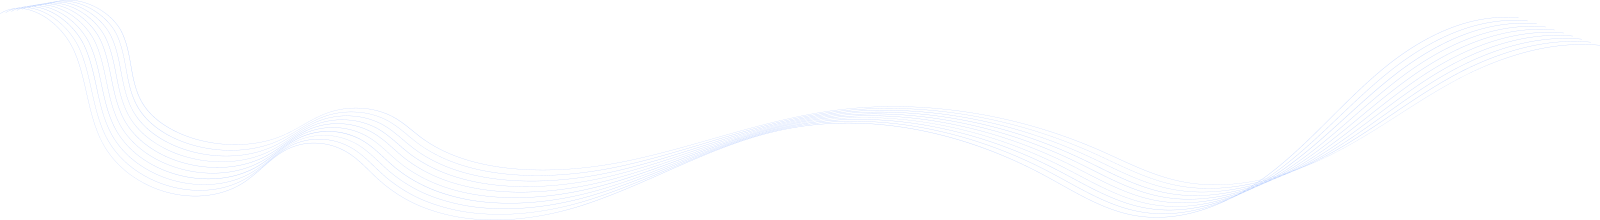
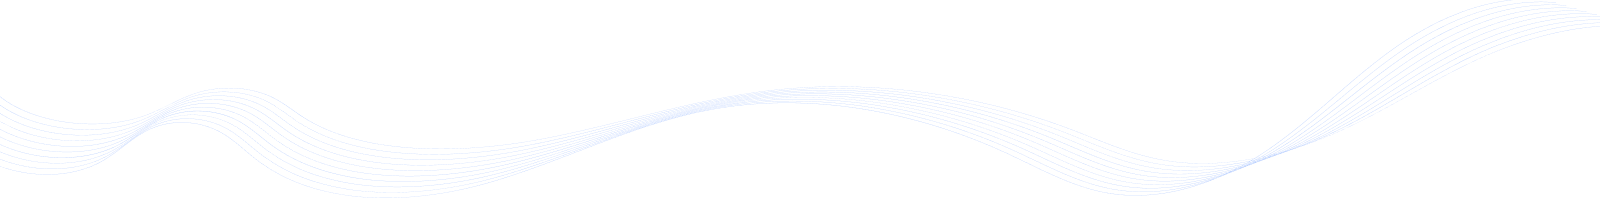
Fix: PROF2022-698/697/554/555

diff --git a/src/components/navigation/NavMenu.module.scss b/src/components/navigation/NavMenu.module.scss
@@ -30,7 +30,7 @@
 .sidebar {
     width: 100%;
     background: global.$background-sidebar;
-    padding: 50px 0 0 60px;
+    padding: 30px 0 0 50px;
     display: flex;
     flex-direction: column;
     text-align: left;
@@ -39,50 +39,57 @@
         display: none;
     }
     &__logo {
-        padding: 0 0 63px;
-        width: fit-content;
-        padding-left: 10px;
+        padding: 0 0 40px 0;
+        & img {
+            width: 130px;
+            height: 44px;
+        }
     }
     &__photo {
-        height: 200px;
-        width: 200px;
-        margin-left: 10px;
+        height: 140px;
+        width: 140px;
+        margin-left: 40px;
         background: global.$background-main;
         border: global.$text-primary-blue solid 1px;
         border-radius: 50%;
-        padding: 72px 34px 72px 34px;
+        padding: 48px 20px;
     }
     &__photo__button {
-        width: 32px;
-        height: 32px;
+        width: 24px;
+        height: 24px;
         margin: auto;
         background-color: #F0F5FF;
         border-radius: 50%;
-        padding: 7px 9px;
+        padding: 6.75px;
+        & svg {
+            display: block;
+        }
     }
     &__photo__title {
         color: global.$text-primary-blue;
         font-weight: 600;
-        font-size: 1.12em;
+        font-size: 0.875em;
         line-height: 1.32;
+        white-space: nowrap;
     }
     &__number {
         color: global.$text-primary-grey;
-        font-size: 1em;
+        font-size: 0.875em;
         font-weight: 500;
         line-height: 1.32;
-        padding: 10px 0 39px 22px;
+        padding: 12px 0px 31px 28px;
     }
     &__number__id {
         font-weight: 400;
+        padding-left: 5px;
     }
     &__nav__link {
         display: flex;
         flex-direction: row;
         column-gap: 12px;
-        padding: 23px 25px;
+        padding: 15px 24px;
         font-weight: 400;
-        font-size: 1.25em;
+        font-size: 1.125em;
         line-height: 1.32;
         color: global.$text-primary-dark-blue;
         position: relative;
@@ -91,34 +98,14 @@
             stroke: global.$text-primary-dark-blue;
         }
     }
-    @media (max-width: 1439.98px) {
-        padding: 30px 0 0 30px;
-        &__nav__link {
-            padding: 23px 28px;
-            column-gap: 10px;
-        }
-        &__logo {
-            padding: 0 0 28px;
-            padding-left: 2px;
-            & img {
-                width: 130px;
-                height: 44px;
-            }
-        }
-        &__number {
-            padding: 10px 0 41px 20px;
-        }
-        &__photo {
-            margin-left: 2px;
-        }
-    }
-    @media (max-width: 767.98px) {
-        background: global.$background-main url("../../static/images/background-cabinet-burger.png") bottom / cover no-repeat;
-        width: 100%;
+    @media (max-width: 1365px) {
+        background: global.$background-main url("../../static/images/background-personal-cabinet-burger.png") 0 calc(100% - 54px) / contain no-repeat;
+        width: 428px;
+        margin: 0 auto;
         position: absolute;
         z-index: 3;
         top: 0;
-        right: 0;
+        right: calc(50% - 428px/2);
         opacity: 0;
         visibility: hidden;
         transition: opacity 100ms ease-in;
@@ -132,25 +119,29 @@
             display: none;
         }
     }
+    @media (max-width: 428px) {
+        width: 100%;
+        right: 0;
+    }
 }
 
 .sidebar_open.sidebar {
-    @media (max-width: 767.98px) {
+    @media (max-width: 1365px) {
         visibility: visible;
         opacity: 1;
-        padding: 9.57px 15px 0;
+        padding: 20px 16px 0;
         .sidebar {
             &_open__header {
                 display: flex;
                 justify-content: space-between;
-                margin-bottom: 30px;
+                margin-bottom: 24px;
                 &_exit {
                     cursor: pointer;
                 }
             }
             &__nav__link {
                 column-gap: 8px;
-                padding: 16.5px 0;
+                padding: 12.5px 0;
                 font-size: 1em;
                 color: global.$text-primary-dark-blue;
                 background: transparent;
@@ -221,8 +212,8 @@
 
 .exit{
     display: none;
-    @media (max-width: 767.98px) {
-        margin: auto 0 119.5px;
+    @media (max-width: 1365px) {
+        margin: auto 0 58px;
         display: block;
         & p {
             font-size: 1em;

diff --git a/src/pages/PersonalCabinetPage/PersonalCabinetPage.module.scss b/src/pages/PersonalCabinetPage/PersonalCabinetPage.module.scss
@@ -2,16 +2,9 @@
 .page {
     min-height: 100vh;
     text-align: center;
-    
-    &__background {
-        position: absolute;
-        z-index: -1;
-        margin: 126px 0 91.45px;
-        width: 100vw;
-        height: 220px;
-        background: global.$background-main url("../../static/images/background-personal-cabinet.png") center / cover no-repeat;
-    }
+    width: 100vw;
     &__container {
+        background: global.$background-main url("../../static/images/background-personal-cabinet.png") top center / contain no-repeat;
         margin: 0 auto;
         display: flex;
         justify-content: center;
@@ -23,36 +16,25 @@
         display: flex;
         justify-content: flex-start;
         flex-direction: column;
-        width: 75%;
+        width: calc(100% - 320px);
     }
     &__header {
-        margin: 38px 0 91.45px;
-        height: 216px;
+
     }
     &__main {
 
     }
     &__sidebar {
-        flex-basis: 25%;
+        flex-basis: 320px;
     }
-    @media (max-width: 1439.98px) {
-        &__background {
-            margin: 52px 0 44px;
-        }
-        &__sidebar {
-            flex-basis: 32%;
-        }
-        &__content {
-            width: 68%;
-        }
-        &__header {
-            margin: 52px 0 44px;
-            height: 126px;
-        }
-    }
-    @media (max-width: 767.98px) {
+    @media (max-width: 1365px) {
         &__container {
             display: block;
+            width: 428px;
+            background: global.$background-main url("../../static/images/background-personal-cabinet-small.png") 0 56px / contain no-repeat;
+        }
+        &__header {
+
         }
         &__content {
             width: 100%;
@@ -60,24 +42,24 @@
         &__sidebar {
             width: 100%;
         }
-        &__background {
-            display: none;
-        }
-        &__header {
-            margin: 0;
-            height: fit-content;
+    }
+    @media (max-width: 428px) {
+        &__container {
+            width: 100%;
         }
     }
 }
 .header {
     display: none;
-    @media (max-width: 767.98px) {
+    @media (max-width: 1365px) {
         display: flex;
-        width: 100%;
+        width: 428px;
         justify-content: space-between;
         height: 70.57px;
-        padding: 20px 15px 0 18.75px;
+        padding: 20px 16px 0;
         position: fixed;
+        top: 0;
+        right: calc(50% - 428px/2);
         z-index: 2;
         backdrop-filter: blur(2px);
         background: rgba(255, 255, 255, 0.1);
@@ -88,16 +70,17 @@
             cursor: pointer;
         }
     }
+    @media (max-width: 428px) {
+        width: 100%;
+        right: 0;
+    }
 }
 .exit {
     align-self: flex-end;
-    margin: 66px 112px 0 0;
+    margin: 50px 50px 0 0;
     font-size: 1.25em;
     line-height: 1.32;
-    @media (max-width: 1439.98px) {
-        margin: 46px 32px 0 0;
-    }
-    @media (max-width: 767.98px) {
+    @media (max-width: 1365px) {
         display: none;
     }
 }

diff --git a/src/components/navigation/NavMenu.jsx b/src/components/navigation/NavMenu.jsx
@@ -47,18 +47,18 @@ const NavMenu = ({ menuIsOpen, closeMenu, ...props }) => {
       </div>
       <div className={styles.sidebar__photo}>
         <div className={styles.sidebar__photo__button}>
-          <svg
-            width='14'
-            height='14'
-            viewBox='0 0 14 14'
-            fill='none'
-            xmlns='http://www.w3.org/2000/svg'
-          >
-            <path
-              d='M13 8H8V13C8 13.2652 7.89464 13.5196 7.70711 13.7071C7.51957 13.8946 7.26522 14 7 14C6.73478 14 6.48043 13.8946 6.29289 13.7071C6.10536 13.5196 6 13.2652 6 13V8H1C0.734784 8 0.48043 7.89464 0.292893 7.70711C0.105357 7.51957 0 7.26522 0 7C0 6.73478 0.105357 6.48043 0.292893 6.29289C0.48043 6.10536 0.734784 6 1 6H6V1C6 0.734784 6.10536 0.480429 6.29289 0.292893C6.48043 0.105357 6.73478 0 7 0C7.26522 0 7.51957 0.105357 7.70711 0.292893C7.89464 0.480429 8 0.734784 8 1V6H13C13.2652 6 13.5196 6.10536 13.7071 6.29289C13.8946 6.48043 14 6.73478 14 7C14 7.26522 13.8946 7.51957 13.7071 7.70711C13.5196 7.89464 13.2652 8 13 8Z'
-              fill='#407BFF'
-            />
-          </svg>
+        <svg 
+          width='12' 
+          height='12' 
+          viewBox='0 0 12 12' 
+          fill='none' 
+          xmlns='http://www.w3.org/2000/svg'
+        >
+          <path 
+            d='M10.5 6.75H6.75V10.5C6.75 10.6989 6.67098 10.8897 6.53033 11.0303C6.38968 11.171 6.19891 11.25 6 11.25C5.80109 11.25 5.61032 11.171 5.46967 11.0303C5.32902 10.8897 5.25 10.6989 5.25 10.5V6.75H1.5C1.30109 6.75 1.11032 6.67098 0.96967 6.53033C0.829018 6.38968 0.75 6.19891 0.75 6C0.75 5.80109 0.829018 5.61032 0.96967 5.46967C1.11032 5.32902 1.30109 5.25 1.5 5.25H5.25V1.5C5.25 1.30109 5.32902 1.11032 5.46967 0.96967C5.61032 0.829017 5.80109 0.75 6 0.75C6.19891 0.75 6.38968 0.829017 6.53033 0.96967C6.67098 1.11032 6.75 1.30109 6.75 1.5V5.25H10.5C10.6989 5.25 10.8897 5.32902 11.0303 5.46967C11.171 5.61032 11.25 5.80109 11.25 6C11.25 6.19891 11.171 6.38968 11.0303 6.53033C10.8897 6.67098 10.6989 6.75 10.5 6.75Z'
+            fill='#407BFF'
+          />
+        </svg>
         </div>
         <p className={styles.sidebar__photo__title}>Add your photo</p>
       </div>

diff --git a/src/components/headers/PersonalCabinetHeader.module.scss b/src/components/headers/PersonalCabinetHeader.module.scss
@@ -3,13 +3,13 @@
     width: 100%;
     text-align: center;
     overflow: hidden;
-    margin: 98px 0 0;
+    margin: 24px 0 94px;
 
     &__title {
-        max-width: 640px;
+        width: 768px;
         font-weight: 400;
-        line-height: 1.33;
-        font-size: 1.875em;
+        line-height: 1.32;
+        font-size: 1.5em;
         text-align: center;
         margin: auto;
     }
@@ -17,27 +17,27 @@
         color: global.$text-primary-blue;
         font-weight: 700;
     }
-    @media (max-width: 1439.98px) {
-        margin: 40.69px 0 0;
+    @media (max-width: 1535px) {
         &__title {
-            max-width: 346px;
-            line-height: 1.32;
-            font-size: 1.25em;
+            width: 598px;
         }
     }
-    @media (max-width: 767.98px) {
-        margin: 80.57px 0 50px;
-        background: global.$background-main url("../../static/images/background-personal-cabinet.png") center / cover no-repeat;
-
+    @media (max-width: 1365px) {
+        margin: 86px 0 60px;
         &__title {
-            max-width: 302px;
+            max-width: 328px;
+            font-weight: 500;
             line-height: 1.32;
-            font-size: 1.25em;
+            font-size: 1em;
             text-align: center;
-            margin: auto;
         }
         &__title_highlighted {
             font-weight: 700;
+        }
+    }
+    @media (max-width: 360px) {
+        &__title {
+            width: 100%;
         }
     }
 }

diff --git a/src/components/headers/PersonalCabinetHeader.jsx b/src/components/headers/PersonalCabinetHeader.jsx
@@ -4,7 +4,7 @@ import styles from './PersonalCabinetHeader.module.scss';
 const PersonalCabinetHeader = (props) => {
   return (
     <div className={styles.CabinetHeader}>
-      <h1 className={styles.CabinetHeader__title}>Welcome to <span className={styles.CabinetHeader__title_highlighted}>Profiler</span> — an employment program for our best students</h1>
+      <h1 className={styles.CabinetHeader__title}>Welcome to <span className={styles.CabinetHeader__title_highlighted}>Profiler's personal cabinet</span> — an employment program for our best students</h1>
     </div>
   );
 };

diff --git a/src/pages/PersonalCabinetPage/PersonalCabinetPage.jsx b/src/pages/PersonalCabinetPage/PersonalCabinetPage.jsx
@@ -28,7 +28,6 @@ const PersonalCabinetPage = (props) => {
           </svg>
         </div>
       </div>
-      <div className={styles.page__background}></div>
       <div className={styles.page__container}>
         <div className={styles.page__sidebar}>
             <NavMenu menuIsOpen={menuIsOpen} closeMenu={openAndCloseMenu} />
